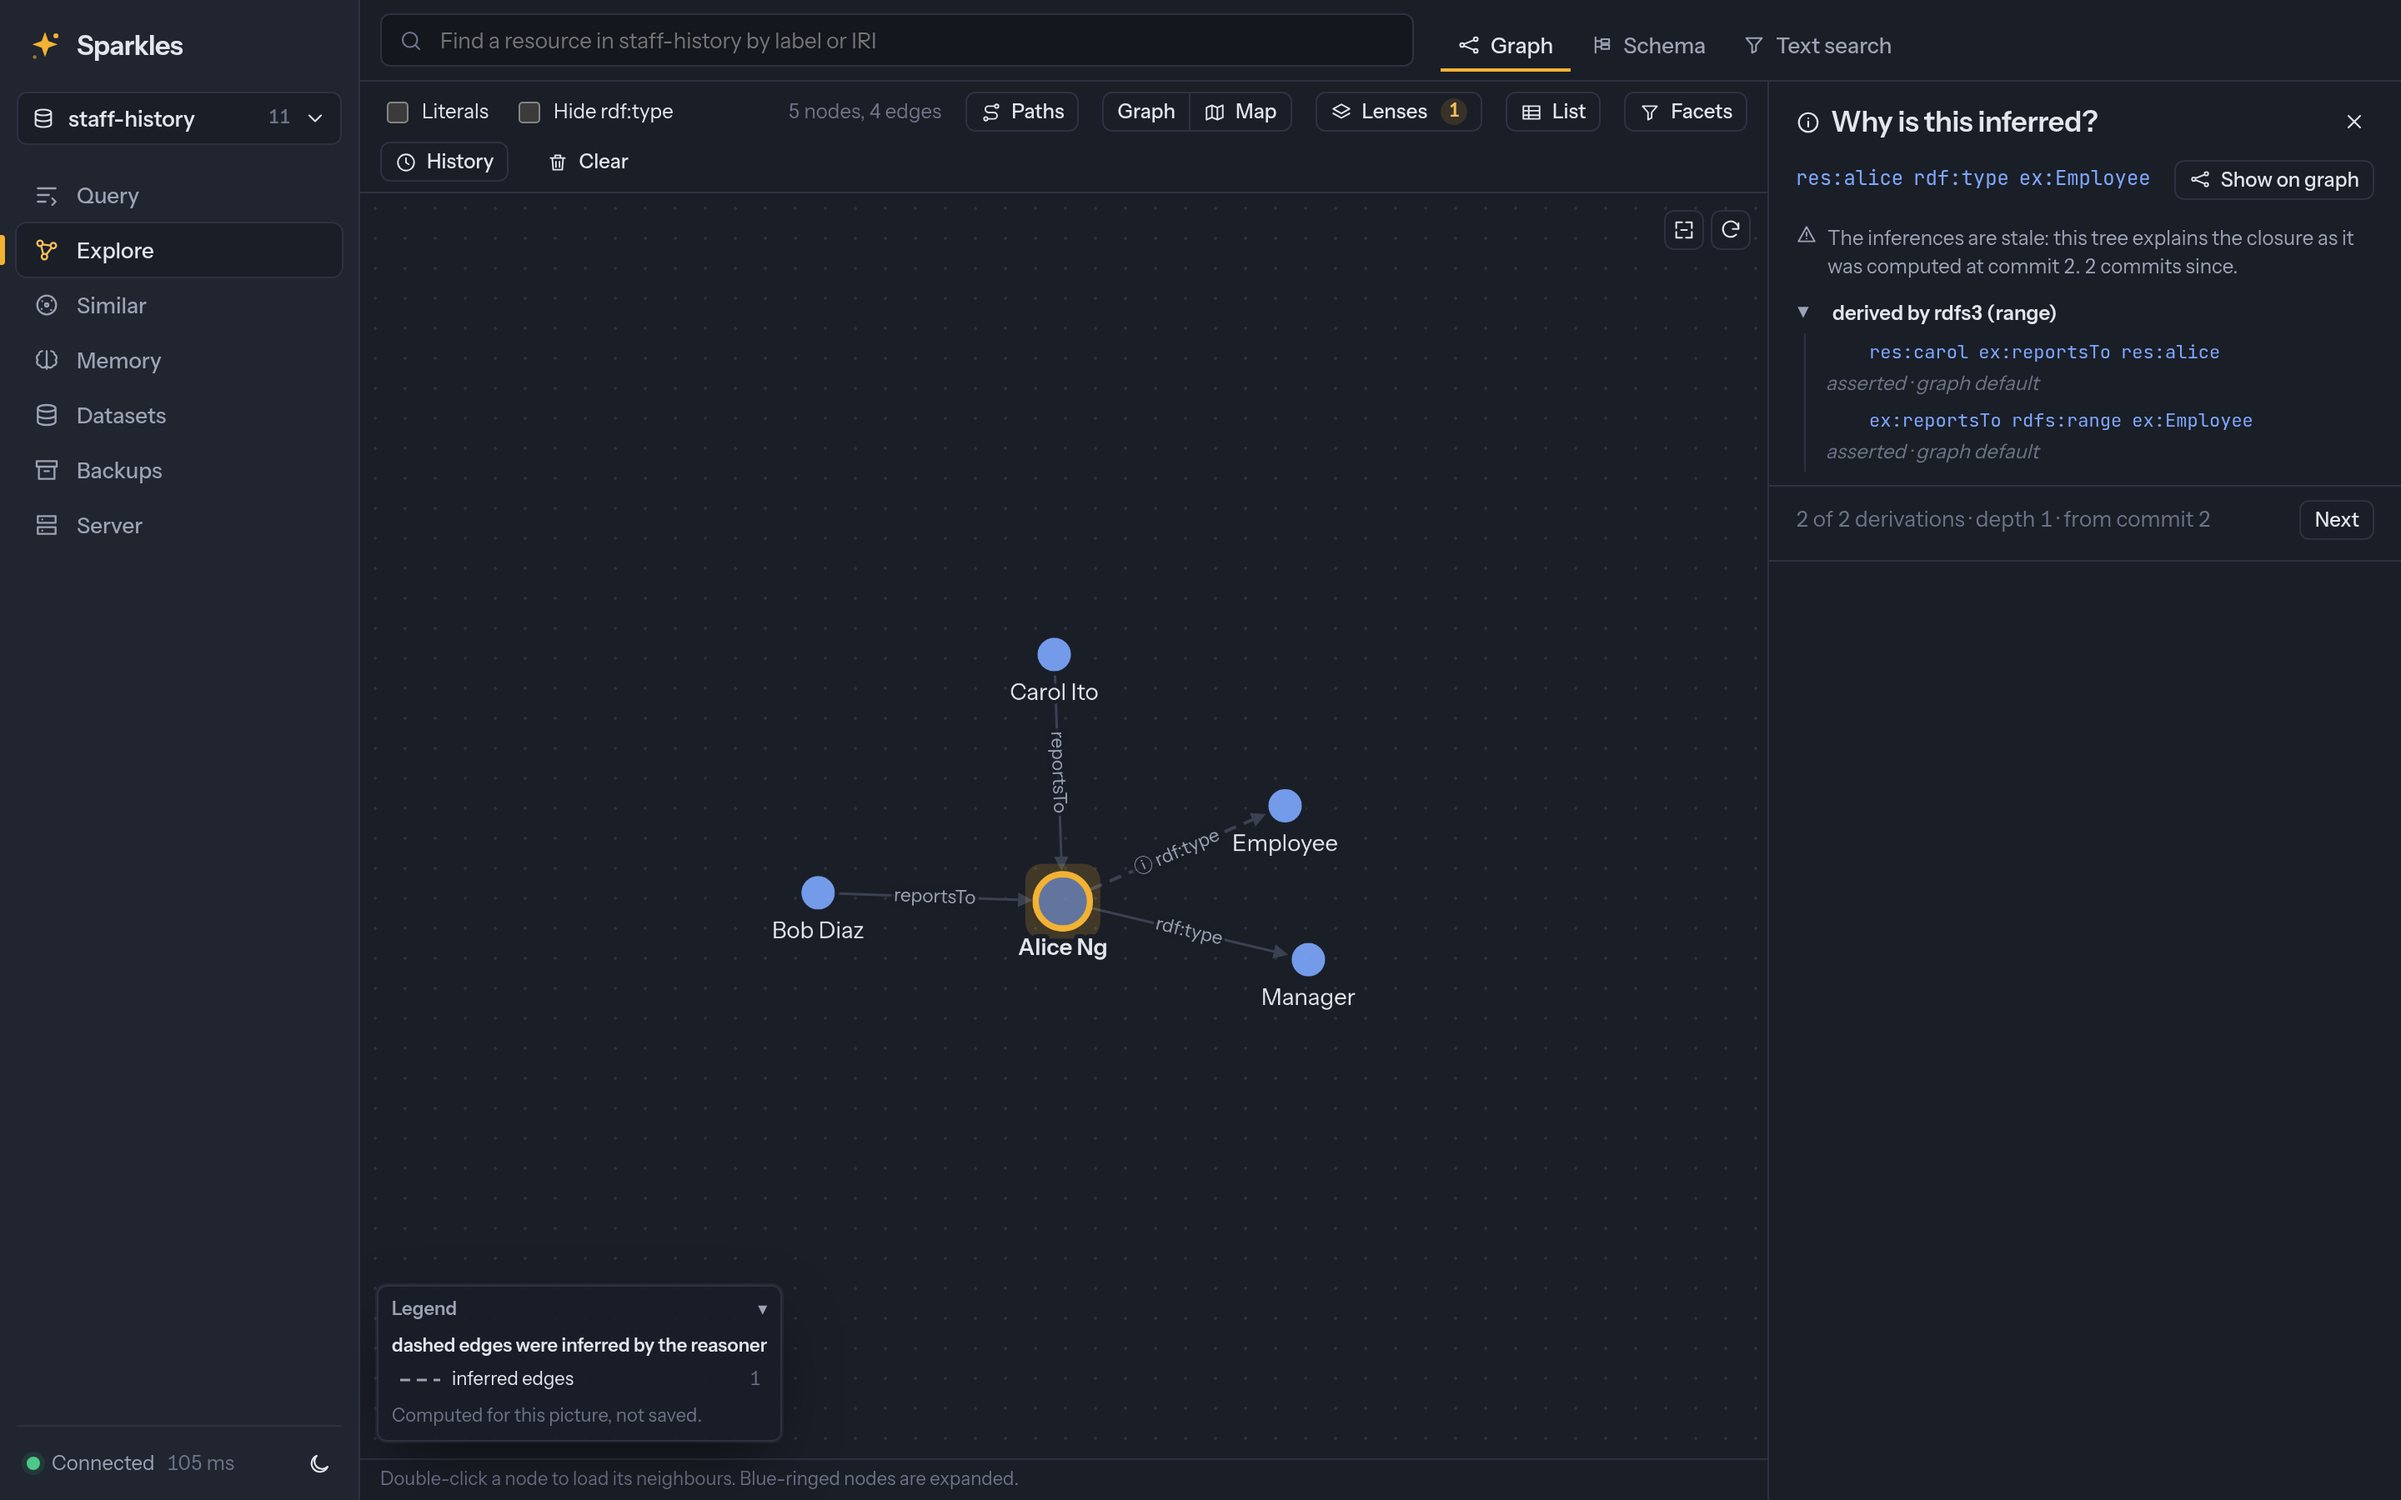
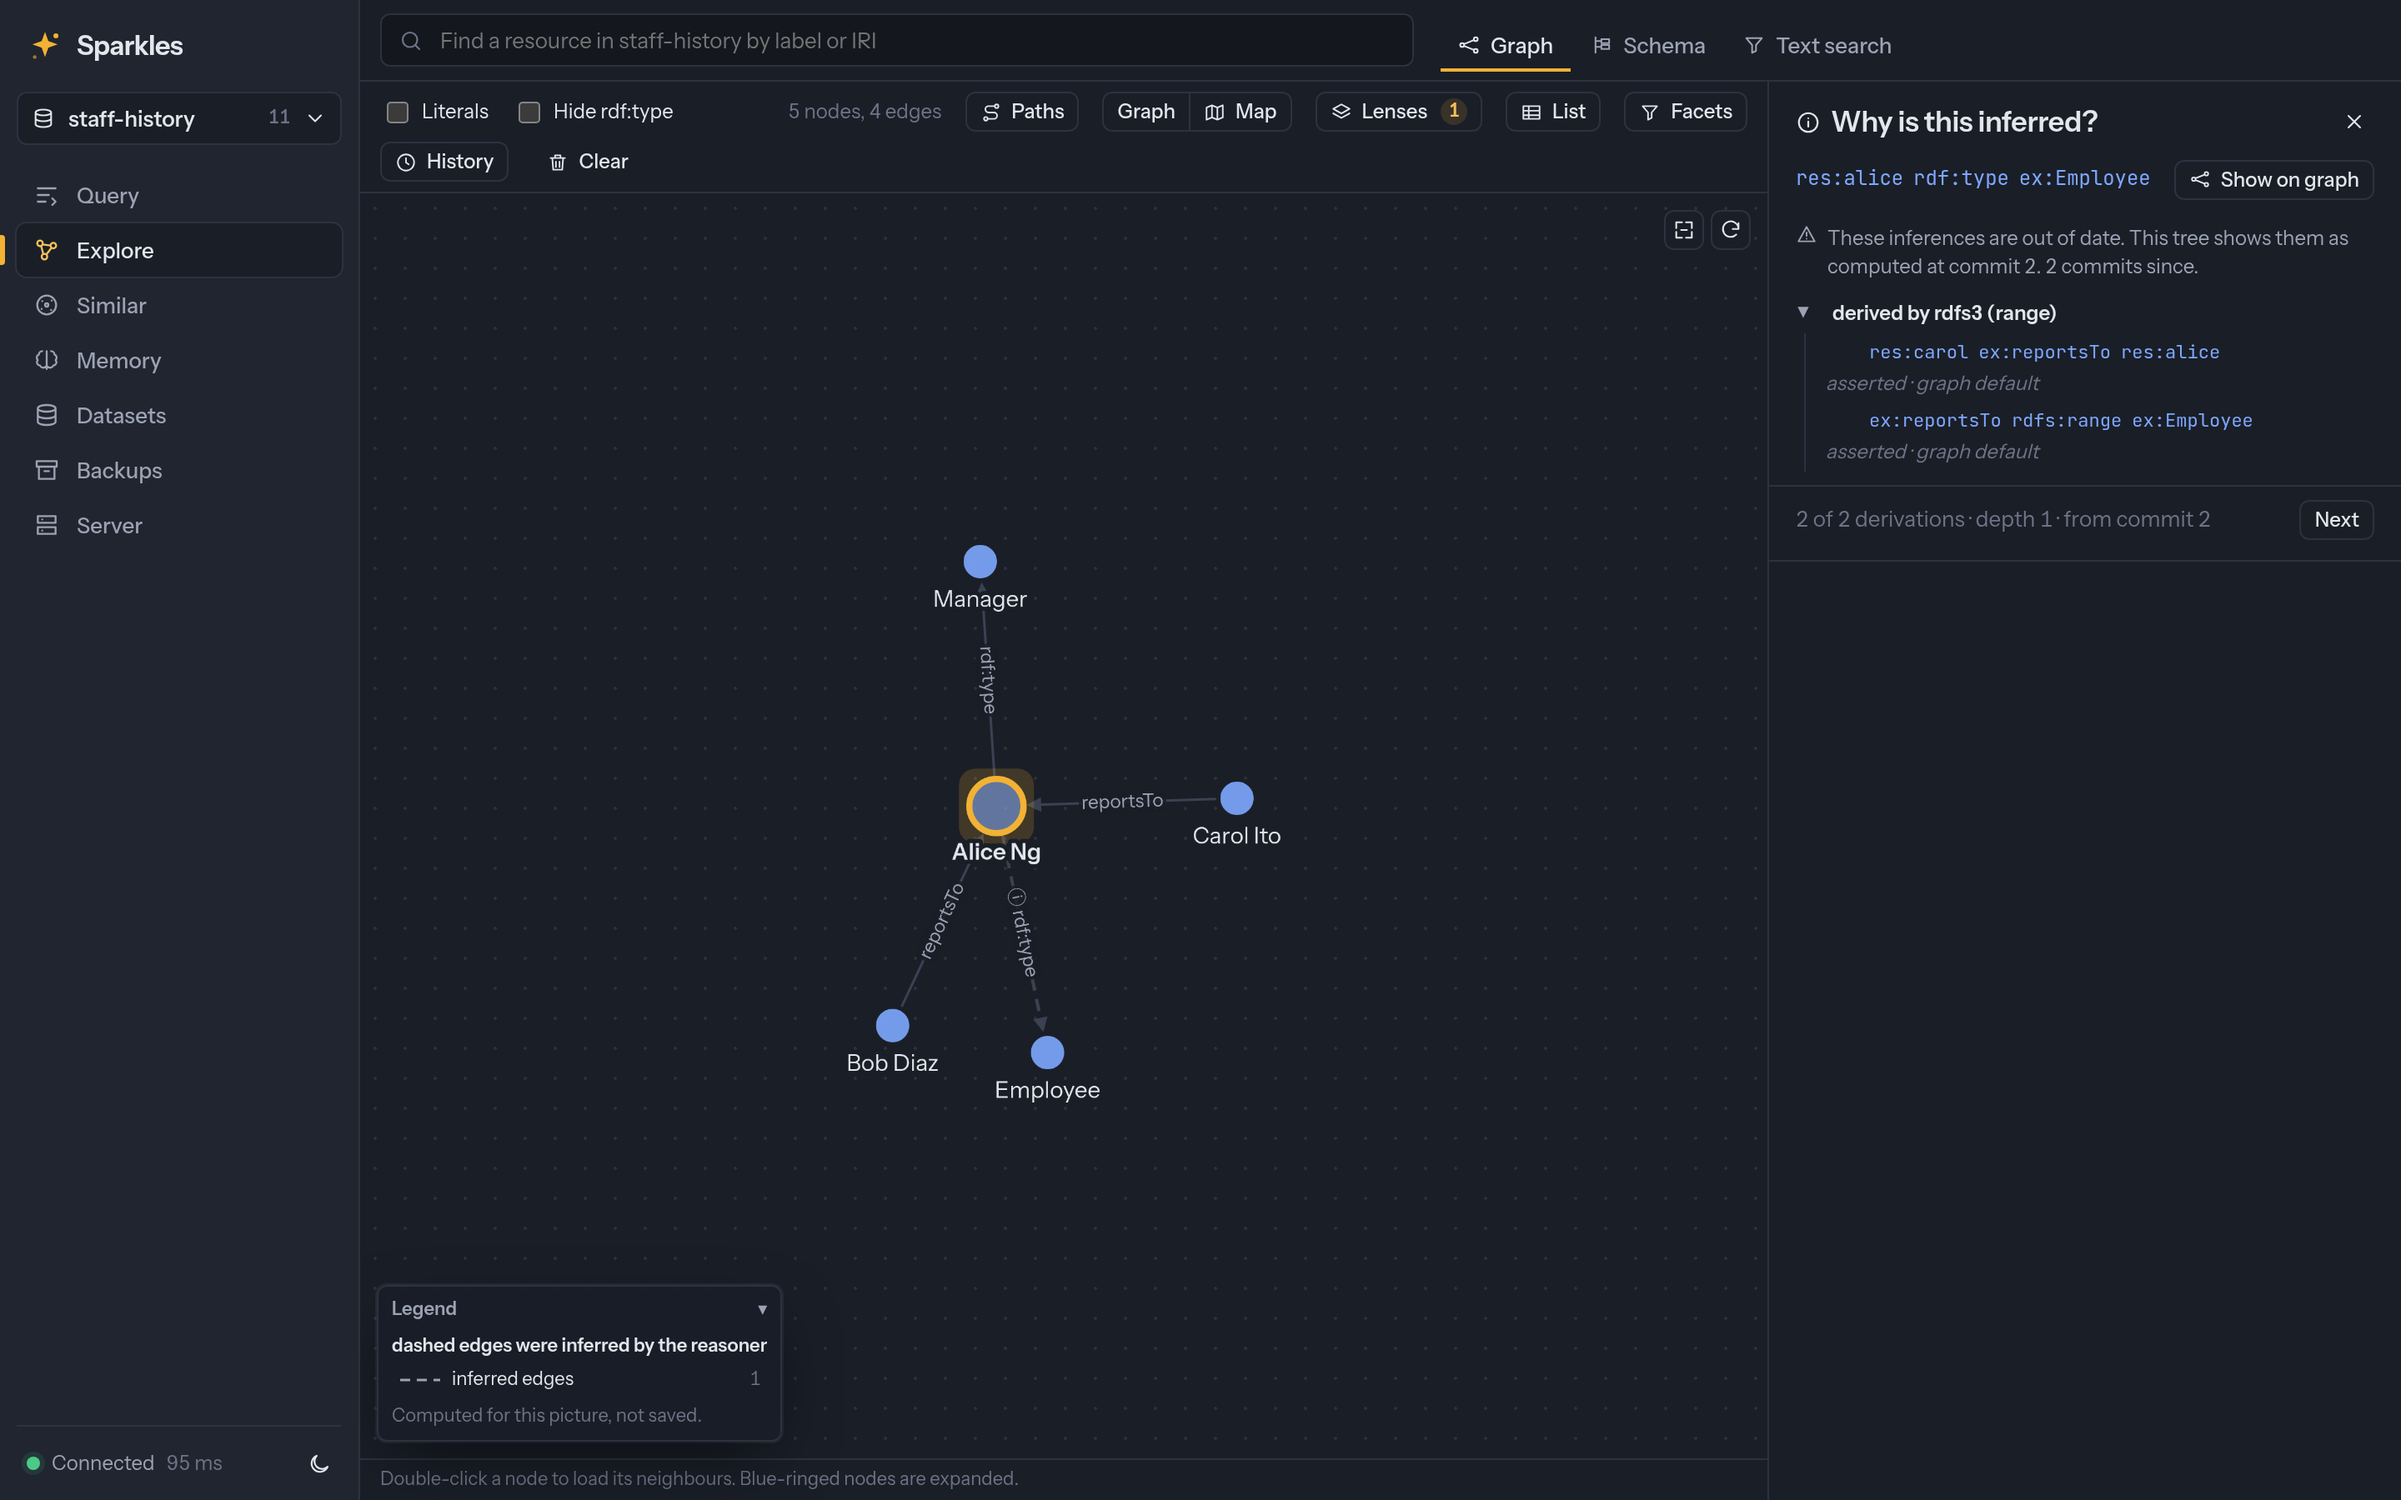
Re-take the screenshots whose copy changed
The Memory page, the stale Why panel and the two model configuration screenshots show
the rewritten subtitle, notes and help text. The screenshot spec checks the new stale
note.

diff --git a/ui/tests/screenshots-mock/screenshots.spec.ts b/ui/tests/screenshots-mock/screenshots.spec.ts
@@ -878,7 +878,7 @@ INSERT DATA {
   await why.click();
   const panel = page.getByTestId('why-panel');
   await expect(panel.getByRole('tree')).toBeVisible();
-  await expect(panel.getByRole('note')).toContainText('stale');
+  await expect(panel.getByRole('note')).toContainText('out of date');
   await panel.getByRole('button', { name: 'Next' }).click();
   await expect(panel).toContainText('2 of 2 derivations');
   await page.getByRole('button', { name: 'Fit to view' }).click();
